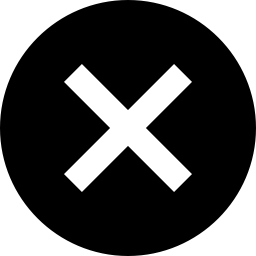
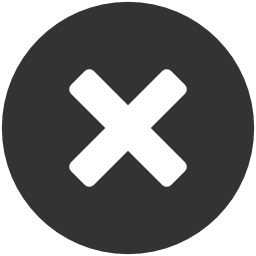
Change SKDownloadButton images

diff --git a/SKPhotoBrowser/SKZoomingScrollView.swift b/SKPhotoBrowser/SKZoomingScrollView.swift
@@ -336,7 +336,7 @@ open class SKZoomingScrollView: UIScrollView {
             setMaxMinZoomScalesForCurrentBounds()
             
             if photo.enableDownload && downloadButton == nil {
-                downloadButton = SKDownloadButton(frame: CGRect(x: 0, y: 0, width: 68, height: 68))
+                downloadButton = SKDownloadButton(frame: CGRect(x: 0, y: 0, width: 64, height: 64))
                 downloadButton.delegate = self
                 if photo.isDownloading {
                     downloadButton.setProgress(photo.downloadProgress, animated: false)

diff --git a/SKPhotoBrowser/SKDownloadButton.swift b/SKPhotoBrowser/SKDownloadButton.swift
@@ -52,8 +52,8 @@ class SKDownloadButton: UIView {
         downloadImageView.clipsToBounds = true
         downloadImageView.layer.masksToBounds = true
         downloadImageView.layer.cornerRadius = downloadImageView.frame.width / 2.0
-        downloadImageView.layer.borderColor = UIColor.clear.cgColor
-        downloadImageView.layer.borderWidth = 0
+        downloadImageView.layer.borderColor = UIColor.black.cgColor
+        downloadImageView.layer.borderWidth = 2
         addSubview(downloadImageView)
         
         circularProgress.frame = frame
